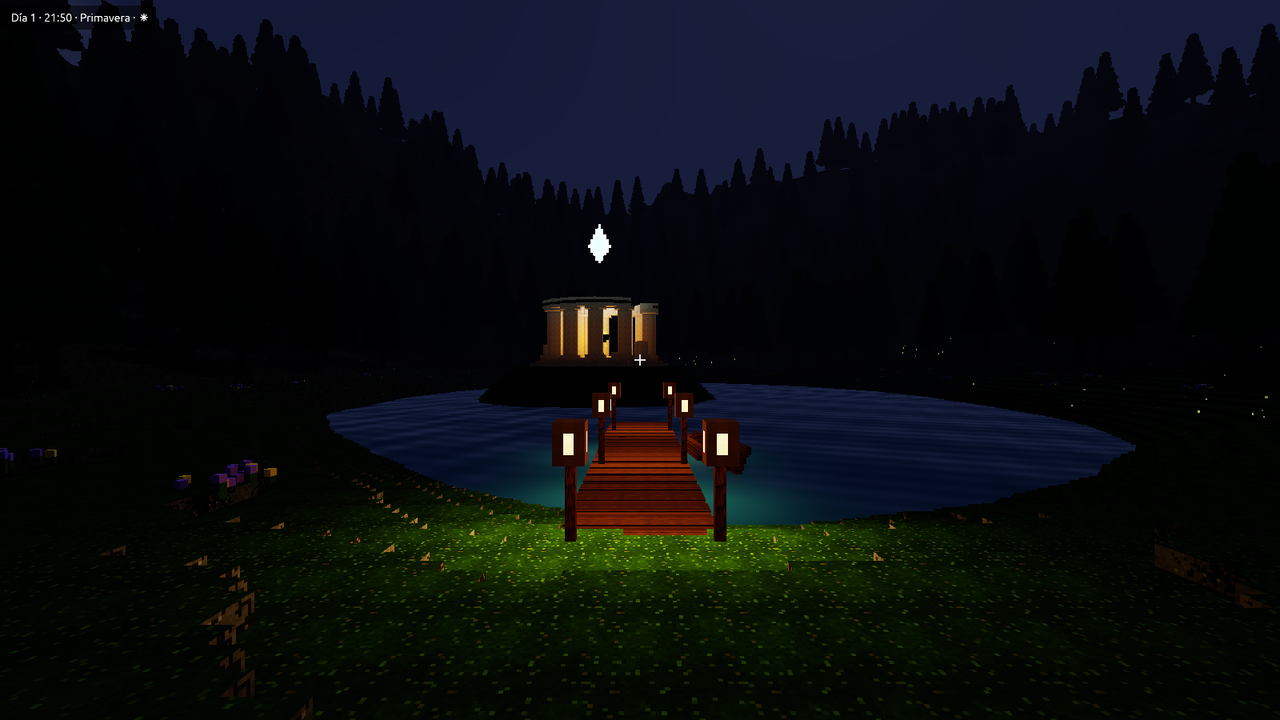
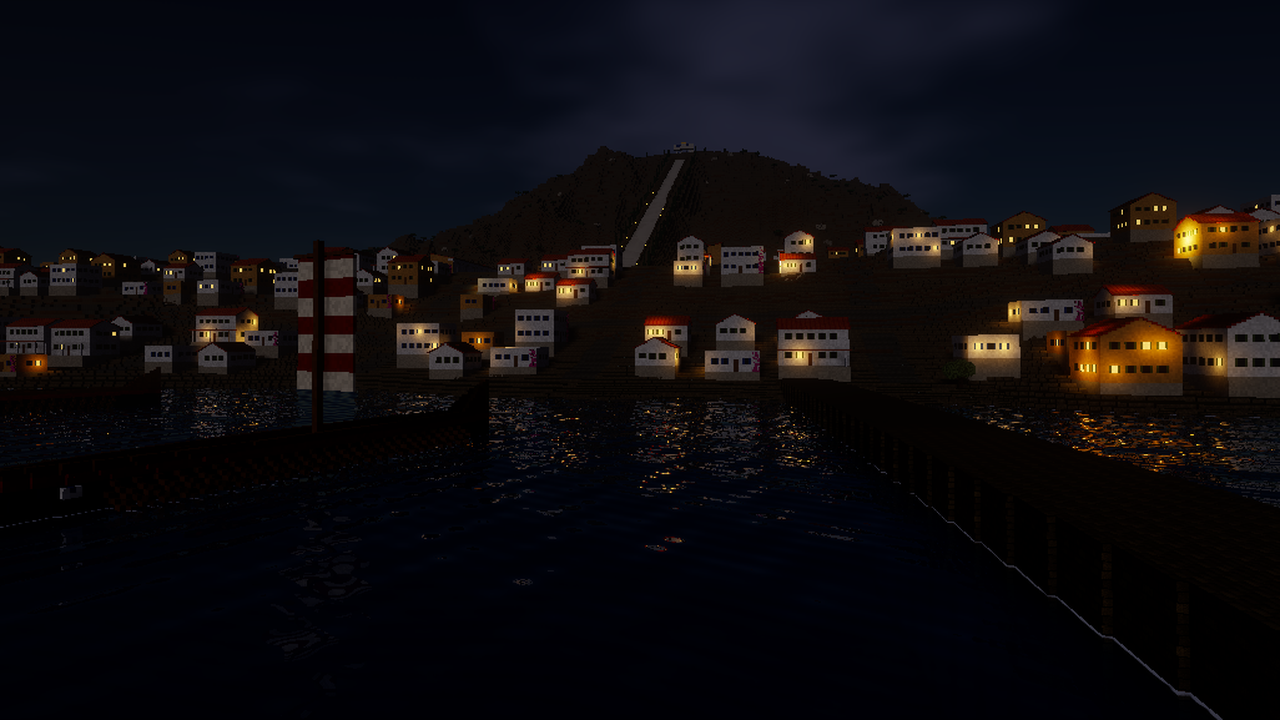
Demo técnica: el templo del zorro (#28)
* Demo técnica: página nueva, escaparate e historial

Claude-Session: https://claude.ai/code/session_0188fnksjWnyrxGb5iervPAC

* Demo técnica: el templo del zorro

La página de la demo, el escaparate, las capturas y el historial cuentan
la nueva demo: el templo del zorro con su ciudad griega y su puerto, y lo
que el motor todavía no sabe hacer.

Claude-Session: https://claude.ai/code/session_0188fnksjWnyrxGb5iervPAC

---------

diff --git a/src/tu-primer-juego/demo-tecnica.md b/src/tu-primer-juego/demo-tecnica.md
@@ -1,17 +1,20 @@
 # Demo técnica
 
 La **Demo técnica** enseña lo que puede hacer Foxy Engine cuando se busca
-un aspecto realista. Es un valle de montaña al atardecer: un lago con una
-isla, un templo de mármol y oro en lo alto de la isla, un muelle de madera
-con faroles y una barca, cientos de pinos y rocas con musgo, y luciérnagas
-en los prados.
+un aspecto realista. Es **el templo del zorro**: en la cumbre de un monte
+junto al mar se levanta un templo de mármol como el de Zeus en Olimpia, con
+34 columnas y, dentro, una estatua enorme de un zorro sentado en su trono,
+de oro y marfil. Una escalera de mármol con antorchas baja hasta una ciudad
+griega de casas encaladas, con su plaza, su teatro, un puerto con
+trirremes y un faro en un islote. Alrededor hay olivares, pinos y cipreses.
 
 Todo está hecho **con el propio motor**, sin imágenes ni modelos de fuera:
-el relieve es una imagen de alturas, las texturas están pintadas en Pixel
-art, los pinos, las rocas y el templo son objetos de cubitos, y la llama,
-la cinemática y el guion se hicieron con el editor.
+el monte es una imagen de alturas, las texturas están pintadas en Pixel
+art, el templo está hecho con cubitos del terreno, la estatua, las casas y
+los barcos son objetos de cubitos, y la llama, la cinemática y el guion se
+hicieron con el editor.
 
-![La demo técnica de tarde, desde el muelle](../imagenes/capturas/demo-tecnica-dia.png)
+![El monte del templo y la ciudad, de tarde](../imagenes/capturas/demo-tecnica-dia.png)
 
 ## 1. Crear el proyecto
 
@@ -20,21 +23,28 @@ la cinemática y el guion se hicieron con el editor.
    **Demo técnica**.
 3. Escribe un nombre y pulsa **Crear proyecto**.
 
+Es un mundo grande (2 × 2 km y unos 6.000 objetos), así que tarda un poco
+más que los demás en abrirse.
+
 ## 2. Jugarla
 
 Pulsa **Desde el inicio** para verla entera. Primero sale una
-**cinemática** que recorre el valle y rodea el templo. Después apareces en
-el muelle, en primera persona:
+**cinemática** que llega desde el mar, pasa por el puerto y la plaza, sube
+la escalera y entra en el templo. Después estás en el pórtico, en primera
+persona, mirando a la estatua:
 
-- Anda con <kbd>W</kbd> <kbd>A</kbd> <kbd>S</kbd> <kbd>D</kbd> y salta con
-  <kbd>Espacio</kbd>.
+- Anda con <kbd>W</kbd> <kbd>A</kbd> <kbd>S</kbd> <kbd>D</kbd>, corre con
+  <kbd>Mayúsculas</kbd> y salta con <kbd>Espacio</kbd>.
+- Entra en la sala: está en penumbra, y la luz del sol entra por una
+  abertura del techo y le da en la cara a la estatua. El estanque del suelo
+  la refleja.
 - Pulsa <kbd>F3</kbd> para ver la ventana [Rendimiento](../guia/rendimiento.md):
   lo que tarda cada parte del motor en cada fotograma.
-- Espera unos minutos: el sol se pone. Un día entero dura media hora, así
-  que a las 19:30 ya es de noche y solo alumbran el fuego del brasero, los
-  faroles y el cristal que flota sobre el templo.
+- Espera unos minutos: el sol se pone. Un día entero dura media hora. De
+  noche alumbran los trípodes del templo, las antorchas de la escalera, las
+  luces de la ciudad y el faro.
 
-![De noche, el fuego del brasero hace sombra a través de las columnas](../imagenes/capturas/demo-tecnica-templo.png)
+![Dentro del templo: la estatua de oro y marfil y el estanque](../imagenes/capturas/demo-tecnica-templo.png)
 
 ## 3. Ver cómo está hecha
 
@@ -42,18 +52,32 @@ el muelle, en primera persona:
 
 | Qué | Dónde mirarlo |
 |---|---|
-| **Cubitos de 25 cm** | [Ajustes del proyecto](../editor/ajustes-proyecto.md): el cubito es de 0,25 m, la rejilla más fina. |
-| **El valle** | Elige el objeto **Terreno** en *En la escena*: es el generador **Imagen de alturas** con `imagenes/relieve.png`. Ver [El terreno de cubitos](../guia/generadores.md). |
-| **Roca en las pendientes** | En [Materiales](../guia/materiales.md), la **Hierba de prado** lleva la textura de roca en sus lados: donde el suelo se empina se ve la piedra. |
-| **Mármol, oro y bronce** | También en Materiales: el mármol es **pulido**, y el oro y el bronce son **metálicos**. El fuego, los farolillos y el cristal tienen **luz**. |
-| **Texturas** | En [Pixel art](../interfaz/pixel-art.md), las imágenes `demo_hierba`, `demo_roca`, `demo_marmol`... de 32 × 32 píxeles, que cubren un metro. |
-| **Pinos, rocas y templo** | En *Objetos propios* del panel Proyecto. Ábrelos en el [creador de objetos](../guia/creador.md). |
-| **El fuego** | El objeto **Fuego del brasero** lleva una [Luz](../referencia/componentes/luz.md) con **Sombras**, partículas de chispas y un Animador con la animación **llama**, que mueve su fuerza y su color. |
-| **El cristal** | Lleva los comportamientos **Girar** y **Flotar**. |
+| **Cubitos de 25 cm** | [Ajustes del proyecto](../editor/ajustes-proyecto.md): el cubito es de 0,25 m. |
+| **El monte, la costa y el mar** | Elige el objeto **Terreno** en *En la escena*: es el generador **Imagen de alturas** con `imagenes/relieve.png`, de 2 km de lado. Ver [El terreno de cubitos](../guia/generadores.md). |
+| **El templo** | Está hecho con cubitos del propio terreno (como si se hubiera hecho con el pincel), por eso la luz que rebota lo ve y dentro queda en penumbra. Las columnas y la estatua sí son objetos. |
+| **Mármol, oro y marfil** | En [Materiales](../guia/materiales.md): el mármol es **pulido**, el oro y el bronce son **metálicos**, y el fuego, las ventanas y el orbe de la estatua tienen **luz**. El orbe lleva además el efecto **Latido**. |
+| **Texturas** | En [Pixel art](../interfaz/pixel-art.md), las imágenes `demo_marmol`, `demo_losas`, `demo_adoquin`... de 32 × 32 píxeles, que cubren un metro. |
+| **La estatua, las casas y los barcos** | En *Objetos propios* del panel Proyecto. Los más grandes (la estatua, las columnas, la stoa, el teatro, el faro y los trirremes) van en varias piezas, porque un objeto no puede pasar de 64 cubitos de lado. |
+| **Los fuegos** | Los objetos **Fuego del trípode** llevan una [Luz](../referencia/componentes/luz.md) con **Sombras**, partículas y un Animador con la animación **llama**. |
+| **La niebla y los rayos de sol** | El objeto **Niebla del mar** lleva el componente Niebla, con **rayos**. El objeto **Sol** pone la hora de la tarde. |
 | **La cinemática** | En el panel [Animación](../guia/cinematicas.md), la cinemática **presentacion**. La pone el guion del mundo al empezar. |
-| **La luz** | En **Ajustes del proyecto → Gráficos**: calidad Ultra y un poco más de exposición. Ver [Gráficos](../guia/graficos.md). |
+| **Los gráficos** | En **Ajustes del proyecto → Gráficos**: calidad Ultra, atmósfera realista (luz que rebota, rayos, agua que refleja) y mundo enorme (carga por zonas, se ve hasta 2,4 km). Ver [Gráficos](../guia/graficos.md). |
 
 Es un proyecto como cualquier otro: cambia lo que quieras o
 [publícalo](../publicar/publicar.md) para jugarlo fuera del editor.
 
-![El muelle de noche](../imagenes/capturas/demo-tecnica-noche.png)
+![El puerto y la ciudad de noche: las ventanas se reflejan en el agua](../imagenes/capturas/demo-tecnica-noche.png)
+
+## Lo que todavía no se puede hacer
+
+La demo usa solo lo que el motor sabe hacer hoy. Lo que le faltó está
+apuntado en la hoja de ruta:
+
+- El mármol pulido refleja el cielo, pero no las columnas: los reflejos de
+  lo que hay en pantalla solo salen en el agua.
+- Los objetos no pueden pasar de 64 cubitos de lado.
+- El terreno pone un solo material arriba: no hay arena en la orilla ni un
+  pincel para pintar el terreno de otro material.
+- El mar acaba en el borde del mundo y no tiene olas.
+- No hay pincel para sembrar árboles y rocas, ni para esculpir formas
+  suaves en el creador de objetos.

diff --git a/src/introduccion.md b/src/introduccion.md
@@ -25,7 +25,7 @@ Cada plantilla es un proyecto completo con el que empezar. Las animaciones
 están hechas con el propio motor.
 
 <div class="escaparate">
-  <figure><img src="imagenes/escaparate/demo-tecnica.webp" alt="Un templo de mármol en una isla, en un lago entre pinos" loading="lazy"><figcaption><strong>Demo técnica</strong>Un valle realista al atardecer: luz física, fuego que hace sombra, mármol, oro y agua.</figcaption></figure>
+  <figure><img src="imagenes/escaparate/demo-tecnica.webp" alt="Un templo de mármol en la cumbre de un monte sobre una ciudad griega y el mar" loading="lazy"><figcaption><strong>Demo técnica</strong>El templo del zorro: rayos de sol en la niebla, mármol, oro, una ciudad entera y el mar.</figcaption></figure>
   <figure><img src="imagenes/escaparate/isla-voxel.webp" alt="Una isla de cubitos con árboles y playa, vista dando una vuelta" loading="lazy"><figcaption><strong>Isla vóxel</strong>Una isla generada con colinas, playa y árboles, lista para construir encima.</figcaption></figure>
   <figure><img src="imagenes/escaparate/isla-de-ejemplo.webp" alt="Un pueblo de cubitos con casas, mercado y vecinos" loading="lazy"><figcaption><strong>Isla de ejemplo</strong>Un pueblo con mercado, vecinos que hablan, día y noche, clima y estaciones.</figcaption></figure>
   <figure><img src="imagenes/escaparate/personaje-animado.webp" alt="La cinemática de presentación de un personaje animado" loading="lazy"><figcaption><strong>Personaje animado</strong>Un personaje por piezas que anda, corre y salta, una puerta animada y una cinemática.</figcaption></figure>

diff --git a/src/empezar/crear-proyecto.md b/src/empezar/crear-proyecto.md
@@ -46,7 +46,7 @@ para cada una.
 | **Mundo de cubitos** | **Isla vóxel** | Una isla generada con colinas, playa, árboles y muelle, sin construcciones | [Mundo de cubitos](../tu-primer-juego/mundo-de-cubitos.md) |
 | | **Isla de ejemplo** | Una isla con pueblo, mercado, vecinos, pelotas y un guion de ejemplo | [Mundo de cubitos](../tu-primer-juego/mundo-de-cubitos.md) |
 | **Más ejemplos** | **Personaje animado** | Un personaje que anda, corre y salta, una puerta que se abre sola y una cinemática | [Animación](../guia/animacion.md) |
-| | **Demo técnica** | Un valle realista al atardecer con lago, templo, fuego que hace sombra, cientos de pinos y una cinemática | [Demo técnica](../tu-primer-juego/demo-tecnica.md) |
+| | **Demo técnica** | El templo del zorro en la cumbre de un monte junto al mar, con una ciudad griega, un puerto y una cinemática | [Demo técnica](../tu-primer-juego/demo-tecnica.md) |
 
 Cada plantilla trae **solo lo que usa**: los objetos, los comportamientos y
 los módulos de su juego. El motor no añade nada más, así que un proyecto

diff --git a/src/apendices/historial.md b/src/apendices/historial.md
@@ -5,6 +5,18 @@ Foxy Engine se construye por fases. Cada fase deja el motor funcionando.
 La versión que sale al abrir el editor, como `0.0.1-PR15`, junta la versión
 del motor con el número del último cambio (*pull request*) incorporado.
 
+## Demo técnica: el templo del zorro
+
+- La plantilla [Demo técnica](../tu-primer-juego/demo-tecnica.md) es
+  ahora el templo del zorro: un templo de mármol en la cumbre de un monte
+  junto al mar, con una estatua sentada de oro y marfil, una escalera con
+  antorchas, una ciudad griega con su plaza, su teatro y su puerto, y unos
+  6.000 objetos en un mundo de 2 km.
+- Enseña la luz y la atmósfera (rayos de sol en la niebla, luz que rebota,
+  agua que refleja), las partículas y los efectos, y la carga por zonas
+  para ver hasta el horizonte.
+- Lo que el motor todavía no sabe hacer quedó apuntado en la hoja de ruta.
+
 ## Fase N: Herramientas para optimizar
 
 - **Objetivo de rendimiento** (Ajustes del proyecto, página
